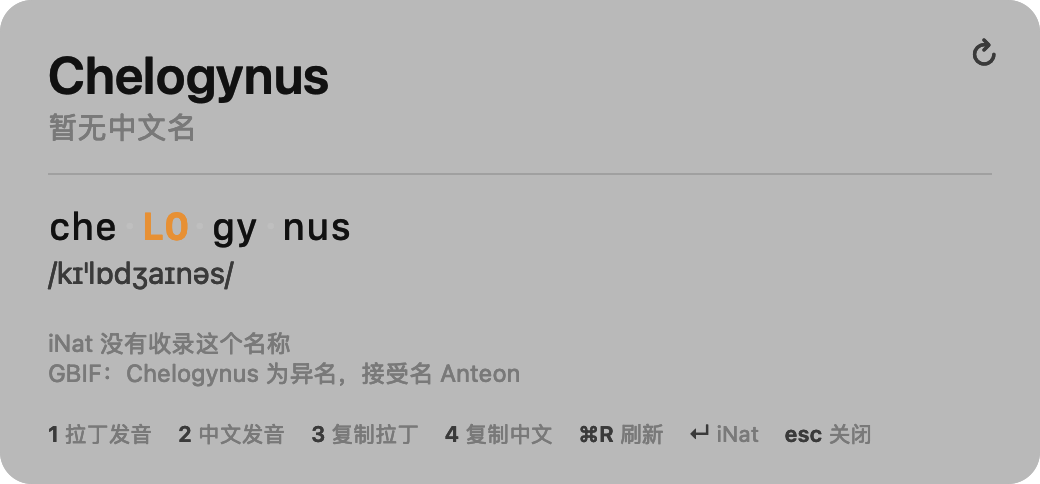
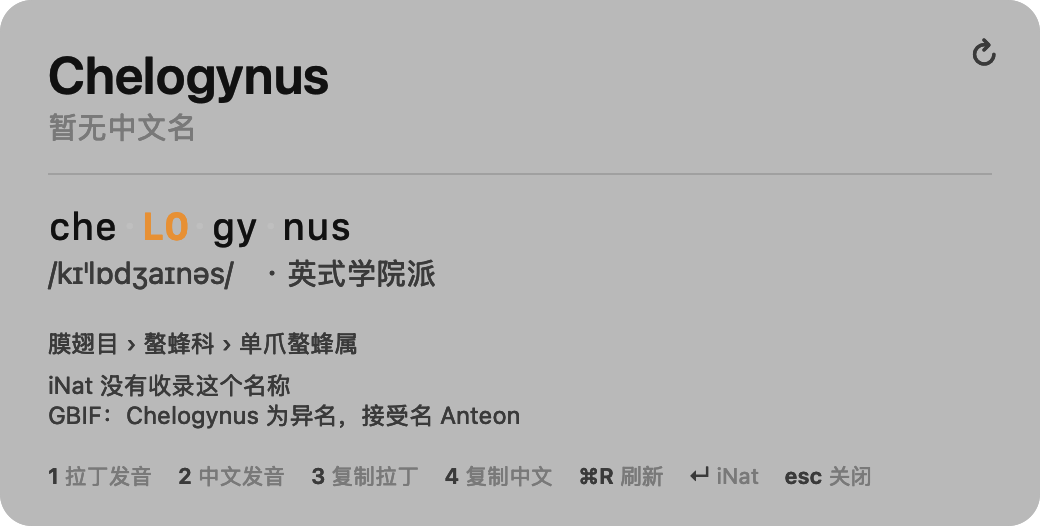
GBIF 状态标记：存疑/误用/未定用橙色提示

diff --git a/Sources/AppDelegate.swift b/Sources/AppDelegate.swift
@@ -354,6 +354,7 @@ final class AppDelegate: NSObject, NSApplicationDelegate {
         var genusLatin: String?
         var genusCN: String?
         var gbifLine: String?
+        var gbifFlag: String?
         var lineage = GBIFLineage()
 
         let group = DispatchGroup()
@@ -372,8 +373,10 @@ final class AppDelegate: NSObject, NSApplicationDelegate {
         group.enter()
         GBIFClient.shared.match(name, forceRefresh: force) { result in
             switch result {
-            case .accepted(let accepted, let rank, let l):
-                gbifLine = "GBIF：接受名 \(accepted)（\(rank.lowercased())）"
+            case .accepted(let accepted, let rank, let status, let l):
+                let flag = AppDelegate.statusFlag(status)
+                gbifLine = "GBIF：接受名 \(accepted)（\(rank.lowercased())）" + (flag.map { " · \($0)" } ?? "")
+                if let f = flag { gbifFlag = f }
                 lineage = l
             case .synonym(let accepted, let current, let l):
                 gbifLine = "GBIF：\(current) 为异名，接受名 \(accepted)"
@@ -406,6 +409,7 @@ final class AppDelegate: NSObject, NSApplicationDelegate {
                                  rank: nil, taxonId: nil,
                                  note: lines.joined(separator: "\n"), isPending: false,
                                  schemeTitle: self.scheme.title)
+            model.noteAttributed = AppDelegate.richNote(lines, flag: gbifFlag)
 
             // GBIF 给了上级（目/科/属）：换成本地中文名，填进层级行
             var chainLatin: [String] = []
@@ -426,6 +430,31 @@ final class AppDelegate: NSObject, NSApplicationDelegate {
                 self.hud.update(model)
             }
         }
+    }
+
+    /// GBIF 状态里需要提醒的（存疑、误用、未定），返回中文标记
+    static func statusFlag(_ status: String) -> String? {
+        switch status.uppercased() {
+        case "DOUBTFUL": return "存疑"
+        case "MISAPPLIED": return "误用"
+        case "UNRESOLVED": return "未定"
+        case "PROVISIONALLY_ACCEPTED": return "暂定"
+        default: return nil
+        }
+    }
+
+    /// 把提醒词染成橙色
+    static func richNote(_ lines: [String], flag: String?) -> NSAttributedString {
+        let base = NSMutableAttributedString(
+            string: lines.joined(separator: "\n"),
+            attributes: [.font: NSFont.systemFont(ofSize: 12),
+                         .foregroundColor: NSColor.secondaryLabelColor])
+        if let flag = flag, let r = base.string.range(of: flag) {
+            base.addAttributes([.foregroundColor: NSColor.systemOrange,
+                                .font: NSFont.systemFont(ofSize: 12, weight: .medium)],
+                               range: NSRange(r, in: base.string))
+        }
+        return base
     }
 
     /// 把一串拉丁阶元名逐个换成 iNat 中文名，查不到就保留拉丁名

diff --git a/Sources/GBIF.swift b/Sources/GBIF.swift
@@ -8,7 +8,7 @@ struct GBIFLineage: Codable, Equatable {
 }
 
 enum GBIFResult {
-    case accepted(String, String, GBIFLineage)   // 接受名, 阶元, 上级
+    case accepted(String, String, String, GBIFLineage)   // 接受名, 阶元, 状态, 上级
     case synonym(String, String, GBIFLineage)    // 接受名, 你查的名字, 上级
     case higherRank(String)
     case none
@@ -16,7 +16,7 @@ enum GBIFResult {
 
     var lineage: GBIFLineage {
         switch self {
-        case .accepted(_, _, let l), .synonym(_, _, let l): return l
+        case .accepted(_, _, _, let l), .synonym(_, _, let l): return l
         default: return GBIFLineage()
         }
     }
@@ -53,11 +53,11 @@ private struct GBIFCacheEntry: Codable {
 private struct GBIFCacheFile: Codable {
     let version: Int
     let entries: [String: GBIFCacheEntry]
-    static let current = 2
+    static let current = 3
 }
 
 extension GBIFResult: Codable {
-    private enum CodingKeys: String, CodingKey { case kind, a, b, order, family, genus }
+    private enum CodingKeys: String, CodingKey { case kind, a, b, order, family, genus, status }
 
     init(from decoder: Decoder) throws {
         let c = try decoder.container(keyedBy: CodingKeys.self)
@@ -70,7 +70,7 @@ extension GBIFResult: Codable {
         l.genus = try c.decodeIfPresent(String.self, forKey: .genus)
 
         switch kind {
-        case "accepted": self = .accepted(a ?? "", b ?? "", l)
+        case "accepted": self = .accepted(a ?? "", b ?? "", try c.decodeIfPresent(String.self, forKey: .status) ?? "", l)
         case "synonym": self = .synonym(a ?? "", b ?? "", l)
         case "higherRank": self = .higherRank(a ?? "")
         case "failed": self = .failed(a ?? "")
@@ -81,9 +81,10 @@ extension GBIFResult: Codable {
     func encode(to encoder: Encoder) throws {
         var c = encoder.container(keyedBy: CodingKeys.self)
         switch self {
-        case .accepted(let a, let b, let l):
+        case .accepted(let a, let b, let st, let l):
             try c.encode("accepted", forKey: .kind)
             try c.encode(a, forKey: .a); try c.encode(b, forKey: .b)
+            try c.encode(st, forKey: .status)
             try c.encodeIfPresent(l.order, forKey: .order)
             try c.encodeIfPresent(l.family, forKey: .family)
             try c.encodeIfPresent(l.genus, forKey: .genus)
@@ -186,7 +187,7 @@ final class GBIFClient {
                     }
                     return
                 }
-                completion(.accepted(canonical, rank, lineage))
+                completion(.accepted(canonical, rank, raw.status ?? "", lineage))
             case "HIGHERRANK":
                 completion(.higherRank(canonical))
             default:

diff --git a/Sources/main.swift b/Sources/main.swift
@@ -26,6 +26,7 @@ if let ridx = argv.firstIndex(of: "--render"), ridx + 1 < argv.count {
     var tid: Int?
     var note: String?
     var hierarchyText = ""
+    var gbifFlag: String?
     let sem = DispatchSemaphore(value: 0)
     INatClient.shared.lookup(name, direction: chineseMode ? .chinese : .latin,
                              queue: DispatchQueue.global()) { result in
@@ -61,8 +62,11 @@ if let ridx = argv.firstIndex(of: "--render"), ridx + 1 < argv.count {
             let sem3 = DispatchSemaphore(value: 0)
             GBIFClient.shared.match(name, queue: DispatchQueue.global()) { r in
                 switch r {
-                case .accepted(let a, let rank, let l):
-                    lines.append("GBIF：接受名 \(a)（\(rank.lowercased())）"); lineage = l
+                case .accepted(let a, let rank, let st, let l):
+                    let flag = AppDelegate.statusFlag(st)
+                    lines.append("GBIF：接受名 \(a)（\(rank.lowercased())）" + (flag.map { " · \($0)" } ?? ""))
+                    if let f = flag { gbifFlag = f }
+                    lineage = l
                 case .synonym(let a, let cur, let l):
                     lines.append("GBIF：\(cur) 为异名，接受名 \(a)"); lineage = l
                 case .higherRank(let h): lines.append("GBIF：只匹配到 \(h)")
@@ -107,10 +111,15 @@ if let ridx = argv.firstIndex(of: "--render"), ridx + 1 < argv.count {
         _ = semA.wait(timeout: .now() + 10)
     }
 
+    var model = HUDModel(name: name, pronunciation: p, commonName: common,
+                         rank: rank, taxonId: tid, note: note, isPending: false,
+                         hierarchy: hierarchyText, schemeTitle: scheme.title)
+    if let n = note, !n.isEmpty {
+        model.noteAttributed = AppDelegate.richNote(n.components(separatedBy: "\n"), flag: gbifFlag)
+    }
+
     let hud = HUDController()
-    hud.show(HUDModel(name: name, pronunciation: p, commonName: common,
-                      rank: rank, taxonId: tid, note: note, isPending: false,
-                      hierarchy: hierarchyText, schemeTitle: scheme.title))
+    hud.show(model)
     DispatchQueue.main.asyncAfter(deadline: .now() + 0.9) {
         _ = hud.snapshot(to: argv[ridx + 1])
         exit(0)

diff --git a/Sources/HUD.swift b/Sources/HUD.swift
@@ -35,6 +35,7 @@ struct HUDModel {
     var isPending: Bool
     var hierarchy: String = ""
     var schemeTitle: String = ""
+    var noteAttributed: NSAttributedString? = nil
 }
 
 final class HUDPanel: NSPanel {
@@ -235,8 +236,13 @@ final class HUDController: NSObject {
             : model.pronunciation.ipa + "    · " + model.schemeTitle
         hierarchyLabel.stringValue = model.hierarchy
         hierarchyLabel.isHidden = model.hierarchy.isEmpty
-        noteLabel.stringValue = model.note ?? ""
-        noteLabel.isHidden = (model.note ?? "").isEmpty
+        if let rich = model.noteAttributed {
+            noteLabel.attributedStringValue = rich
+            noteLabel.isHidden = rich.string.isEmpty
+        } else {
+            noteLabel.stringValue = model.note ?? ""
+            noteLabel.isHidden = (model.note ?? "").isEmpty
+        }
 
         layoutAndShow()
     }

diff --git a/README.md b/README.md
@@ -137,6 +137,16 @@ security import cert.p12 -k ~/Library/Keychains/login.keychain-db -P latin -T /u
 （比如 `Hosunka` → `半翅目 › 飞虱科`，`Chelogynus` → `膜翅目 › 螯蜂科 › 单爪螯蜂属`）。
 这样即使 iNat 没有这条，也能立刻知道它大概是个什么东西。
 
+GBIF 的状态会跟在后面，需要留意的用橙色标出：
+
+| GBIF status | 面板显示 |
+|---|---|
+| `ACCEPTED` | 不额外标注 |
+| `DOUBTFUL` | `· 存疑`（橙） |
+| `MISAPPLIED` | `· 误用`（橙） |
+| `UNRESOLVED` | `· 未定`（橙） |
+| `SYNONYM` | 写作「X 为异名，接受名 Y」 |
+
 ## 数据来源
 
 - **中文名**：iNaturalist `api.inaturalist.org/v1/taxa/autocomplete?locale=zh-CN`
